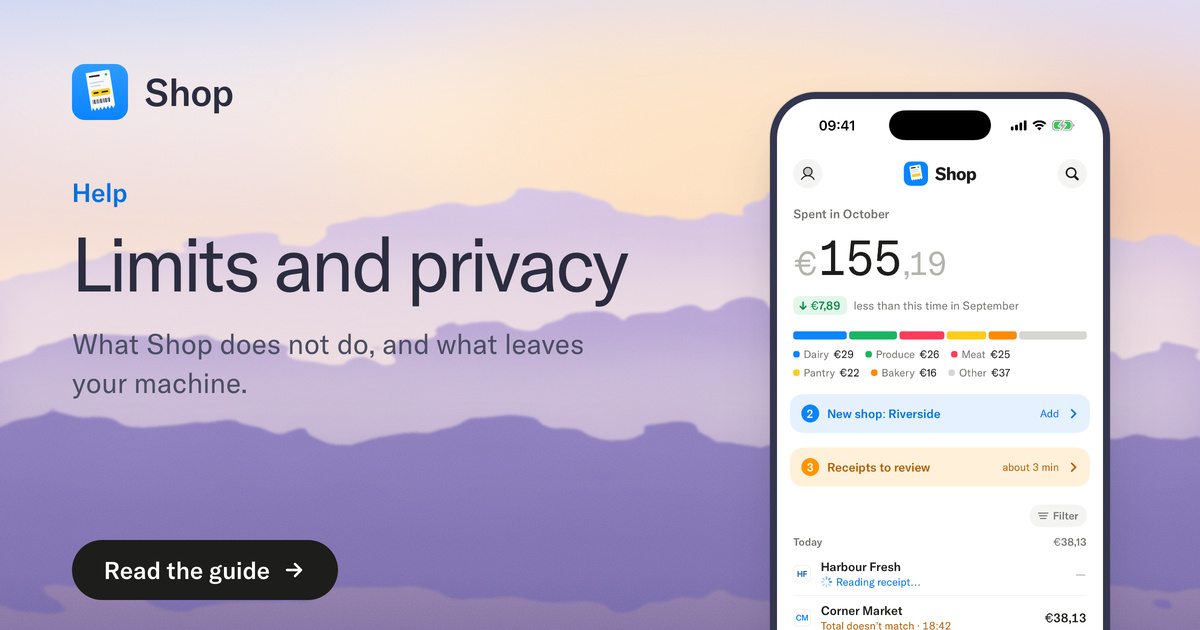
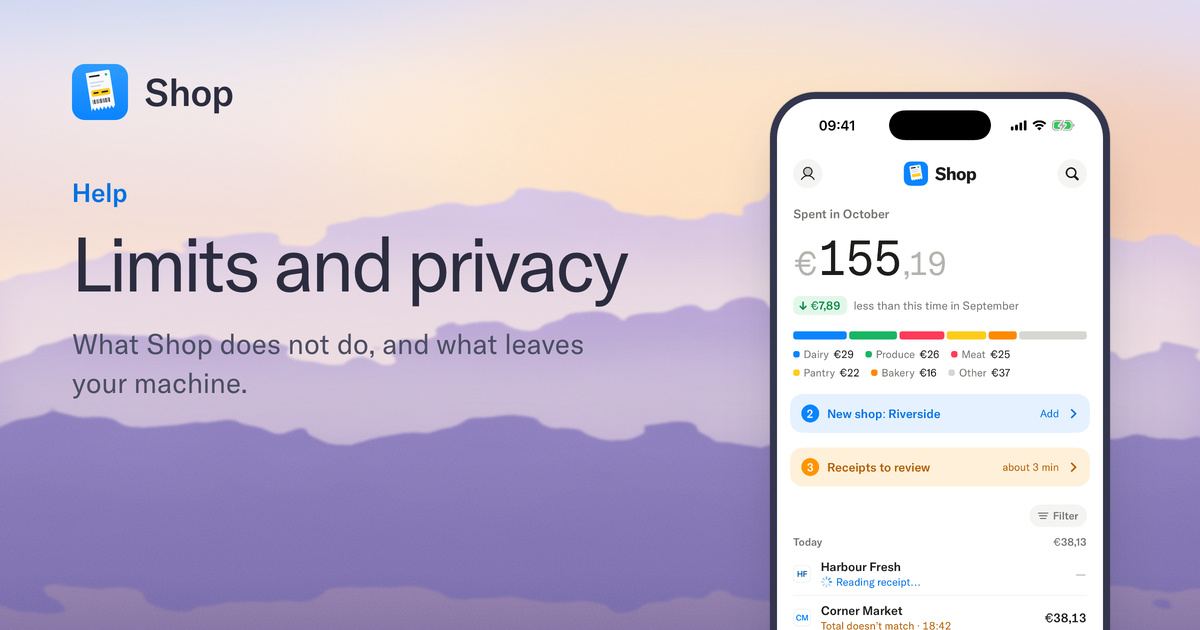
Share cards: remove the call-to-action button (not clickable in a preview)

Changed region(s): [[0.0617, 0.8444, 0.2775, 0.9651]]

diff --git a/design/website/og/make_og.py b/design/website/og/make_og.py
@@ -69,25 +69,19 @@ def brand():
     return f'<div class="brand"><img src="file://{SITE}/img/logo-badge.svg" alt="">Shop</div>'
 
 
-def cta(label, top):
-    return (f'<div style="position:absolute;left:72px;top:{top}px;height:60px;padding:0 32px;border-radius:30px;background:#1D1D1B;color:#fff;'
-            f'font-size:24px;font-weight:500;display:flex;align-items:center;gap:12px;z-index:2">{label}'
-            '<svg width="24" height="24" viewBox="0 0 24 24" fill="none" stroke="#fff" stroke-width="2.4" stroke-linecap="round" stroke-linejoin="round"><path d="M5 12h14M13 6l6 6-6 6"/></svg></div>')
-
-
 def card(w, h, inner, box):
     return f'<!doctype html><meta charset="utf-8"><style>{CSS}</style><div class="card" style="width:{w}px;height:{h}px">{art(w, h, box)}{brand()}{inner}</div>'
 
 
 def landing():
     h = '<br>'.join(TAGLINE)
-    inner = f'<h1 style="position:absolute;left:72px;top:178px;font-size:84px;line-height:1;width:600px;z-index:2">{h}</h1>' + cta('Get started', 540) + phone('receipt', 770, 92, 340)
+    inner = f'<h1 style="position:absolute;left:72px;top:178px;font-size:84px;line-height:1;width:600px;z-index:2">{h}</h1>' + phone('receipt', 770, 92, 340)
     return card(1200, 630, inner, '16 340 1200 630')
 
 
 def square():
     h = '<br>'.join(TAGLINE_SQUARE)
-    inner = f'<h1 style="position:absolute;left:72px;top:190px;font-size:104px;line-height:1;width:1056px;z-index:2">{h}</h1>' + cta('Get started', 540) + phone('receipt', 390, 650, 420)
+    inner = f'<h1 style="position:absolute;left:72px;top:190px;font-size:104px;line-height:1;width:1056px;z-index:2">{h}</h1>' + phone('receipt', 390, 650, 420)
     return card(1200, 1200, inner, '56 0 1120 1120')
 
 
@@ -97,7 +91,7 @@ def wide_page(title, kicker, summary, screen):
              f'<div style="font-size:26px;font-weight:500;color:var(--blueText);margin-bottom:16px">{html.escape(kicker, quote=False)}</div>'
              f'<h1 style="font-size:{size}px;line-height:1.02">{html.escape(title, quote=False)}</h1>'
              f'<p style="font-size:28px;line-height:1.4;color:#4B4E63;margin:22px 0 0;max-width:560px">{html.escape(summary, quote=False)}</p></div>'
-             + cta('Read the guide', 540) + phone(screen, 770, 92, 340))
+             + phone(screen, 770, 92, 340))
     return card(1200, 630, inner, '16 340 1200 630')
 
 
